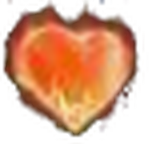
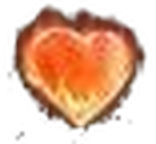
Ícone real do Heart Me (Avião e Motoboy) e Flame heart mais nítido
Claude-Session: https://claude.ai/code/session_01EMNe8r986KRBwFcFsNawuW

diff --git a/aviao-maluco/js/config.js b/aviao-maluco/js/config.js
@@ -50,7 +50,7 @@ CNB.CONFIG = {
     urubus:   { tiktok: 'Doughnut', coins: 30, img: 'img/presentes/doughnut.webp', label: 'Urubu', action: 'birds', amount: 80, points: 30, color: '#a3a3a3', icon: 'bird', key: '4', demo: 6 },
     gasolina: { tiktok: 'Galaxy', coins: 1000, img: 'img/presentes/galaxy.webp', label: 'Míssil', action: 'gameover', points: 1000, color: '#e879f9', icon: 'fuel', key: '7', demo: 0 },
     // --- DIVERSÃO / GRÁTIS ---
-    looping:  { tiktok: 'Heart Me', coins: 1, label: 'Looping', action: 'loop', points: 1, color: '#38bdf8', icon: 'loop', key: '8', demo: 8 },
+    looping:  { tiktok: 'Heart Me', coins: 1, img: 'img/presentes/heart-me.png', label: 'Looping', action: 'loop', points: 1, color: '#38bdf8', icon: 'loop', key: '8', demo: 8 },
     seguir:   { tiktok: 'Seguir (grátis)', label: 'Seguidor', action: 'follow', points: 1, color: '#fe2c55', icon: 'follow', key: '9', demo: 4, free: true }
   },
 

diff --git a/motoboy-maluco/js/config.js b/motoboy-maluco/js/config.js
@@ -51,7 +51,7 @@ CNB.CONFIG = {
     gasolina: { tiktok: 'Galaxy', img: 'img/presentes/galaxy.webp', label: 'Sem gasolina', action: 'gameover', points: 50, color: '#e879f9', icon: 'fuel', key: '7', demo: 0 },
     // NOVO SEGUIDOR (de graça): o seguidor vira cliente da próxima entrega e a moto volta 10 m
     // BUZINA: não cancela nada — o motoboy buzina, carros abrem caminho, pedestres correm e o caramelo foge
-    buzina:   { tiktok: 'Heart Me', label: 'Buzina', action: 'horn', points: 1, color: '#38bdf8', icon: 'horn', key: '8', demo: 14 },
+    buzina:   { tiktok: 'Heart Me', img: 'img/presentes/heart-me.png', label: 'Buzina', action: 'horn', points: 1, color: '#38bdf8', icon: 'horn', key: '8', demo: 14 },
     seguir:   { tiktok: 'Seguir (grátis)', label: 'Seguidor',    action: 'follow',  back: 10, points: 1, color: '#fe2c55', icon: 'follow', key: '9', demo: 6, free: true }
   },
 
